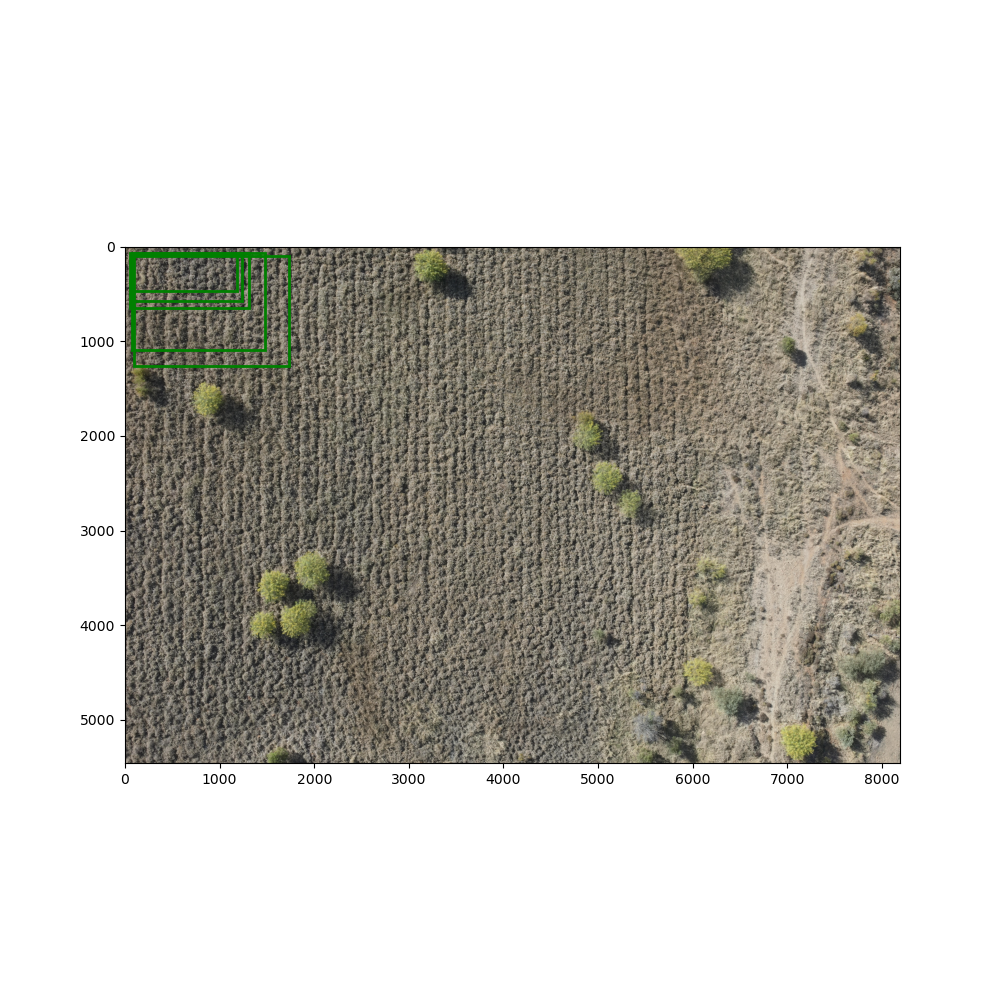
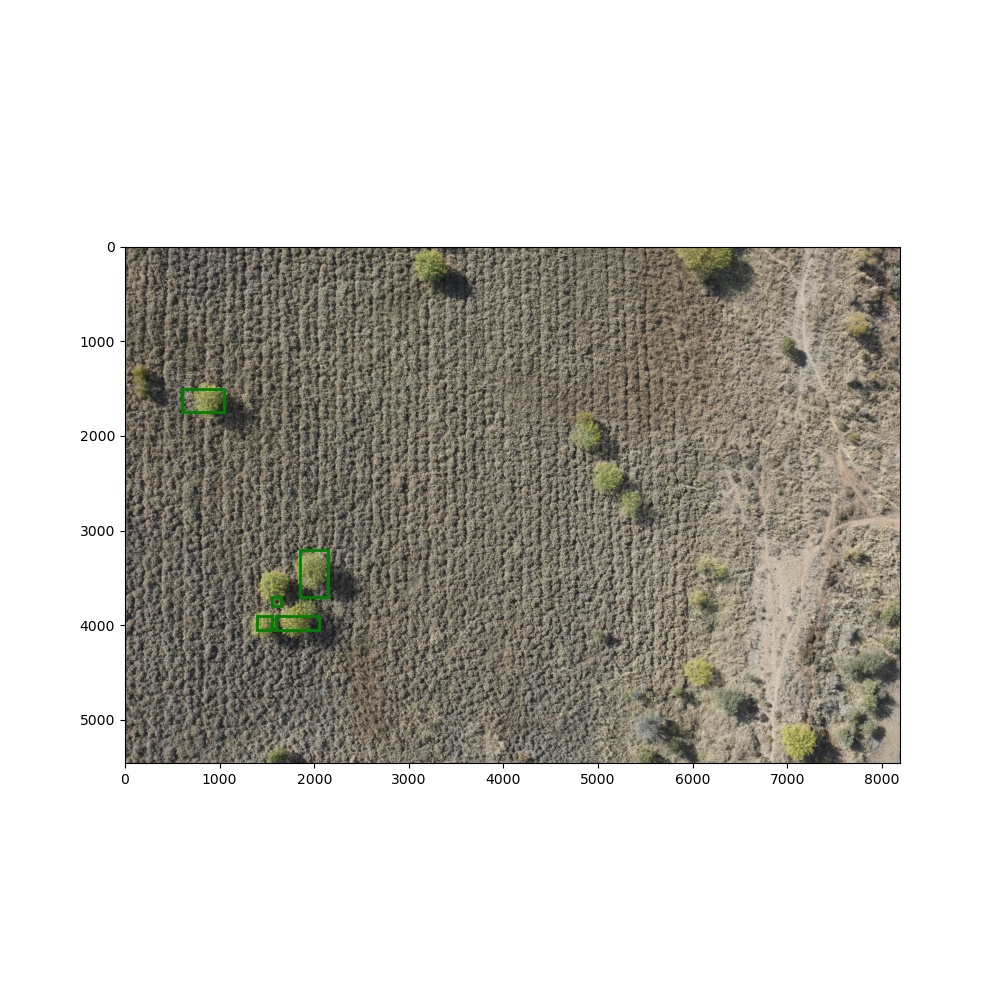
New boxes and masks

Changed region(s): [[0.124, 0.248, 0.31, 0.372], [0.248, 0.589, 0.341, 0.651]]

diff --git a/run_model.py b/run_model.py
@@ -41,14 +41,18 @@ predictor.set_image(image)
 end = time.time()
 print(f"set_image time: {end - start}")
 #
-#box_1 = np.array([573, 966, 73.741, 85.576])
-#box_2 = np.array([601, 778, 60.996, 101.053])
-#box_3 = np.array([512, 789, 39.147, 40.967])
-box_1 = np.array([1185, 463, 71.957, 71.265])
-box_2 = np.array([1235, 569, 78.876, 85.795])
-box_3 = np.array([1308, 648, 56.735, 65.038])
-box_4 = np.array([1476, 1091, 75.416, 70.573])
-box_5 = np.array([1735, 1262, 92.022, 99.632])
+#box_1 = np.array([1185, 463, 71.957, 71.265])
+#box_2 = np.array([1235, 569, 78.876, 85.795])
+#box_3 = np.array([1308, 648, 56.735, 65.038])
+#box_4 = np.array([1476, 1091, 75.416, 70.573])
+#box_5 = np.array([1735, 1262, 92.022, 99.632])
+box_1 = np.array([600, 1500, 1050, 1750])
+box_2 = np.array([1400, 3900, 1550, 4050])
+box_3 = np.array([1600, 3900, 2050, 4050])
+box_4 = np.array([1550, 3700, 1650, 3800])
+box_5 = np.array([1850, 3200, 2150, 3700])
+
+
 
 #input_boxes = torch.tensor([box_1, box_2, box_3], device=predictor.device)
 input_boxes = torch.tensor(
@@ -57,21 +61,21 @@ input_boxes = torch.tensor(
 )
 
 transformed_boxes = predictor.transform.apply_boxes_torch(input_boxes, image.shape[:2])  
-masks, _, _ = predictor.predict_torch(
-    point_coords=None,
-    point_labels=None,
-    boxes=transformed_boxes,
-    multimask_output=True
-)
-
-
-
-#masks, _, _ = predictor.predict(
+#masks, _, _ = predictor.predict_torch(
 #    point_coords=None,
 #    point_labels=None,
-#    box=box_1,
+#    boxes=transformed_boxes,
 #    multimask_output=True
 #)
+
+
+
+masks, _, _ = predictor.predict(
+    point_coords=None,
+    point_labels=None,
+    box=box_1,
+    multimask_output=True
+)
 #
 plt.figure(figsize=(10,10))
 plt.imshow(image)
